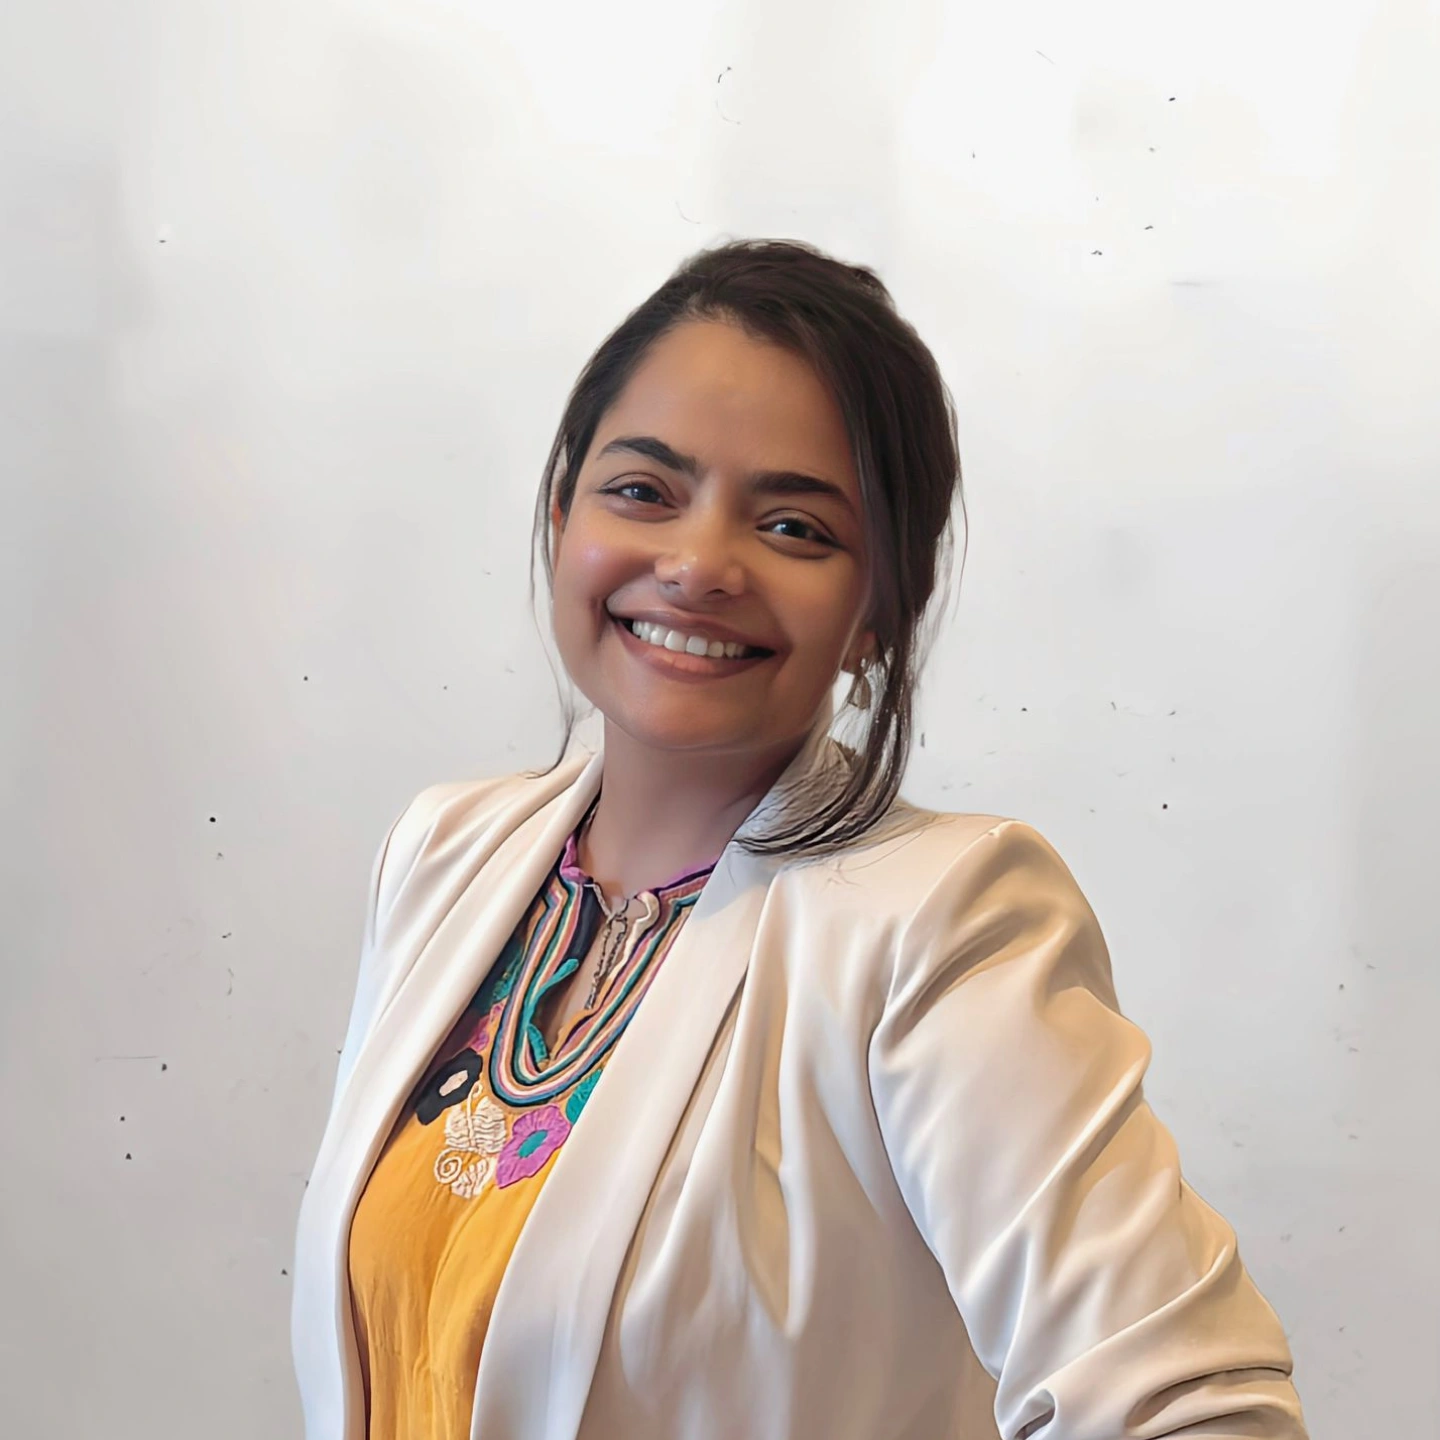
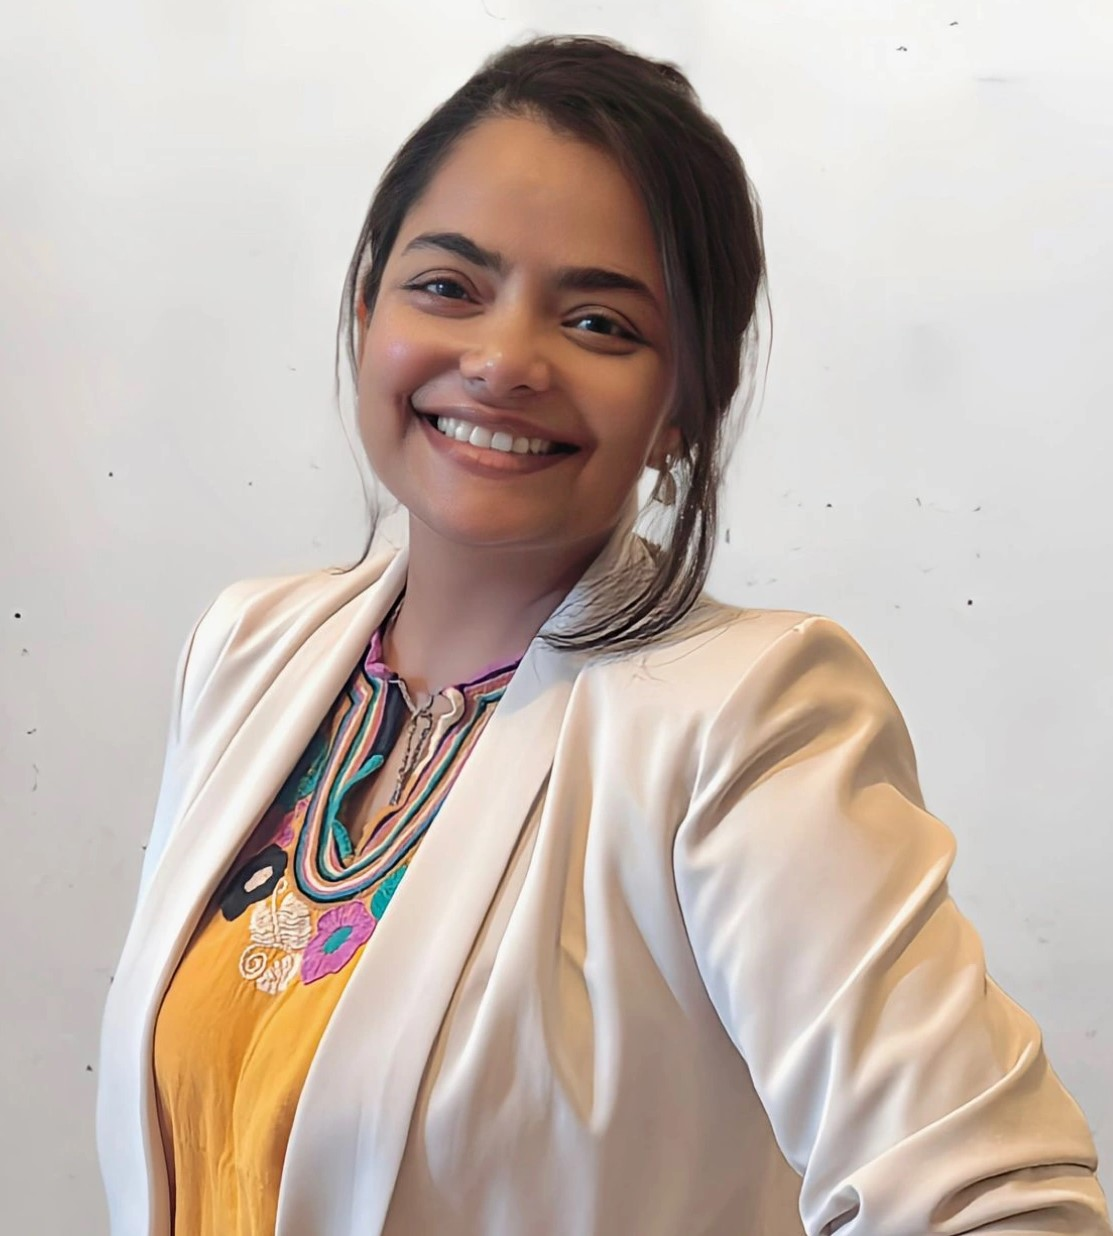
cropped pic and changed about section

diff --git a/_pages/about.md b/_pages/about.md
@@ -2,14 +2,14 @@
 layout: about
 title: about
 permalink: /
-subtitle: <a href='#'>Affiliations</a>. Address. Contacts. Motto. Etc.
+subtitle: <a href='https://www.hsr.it/'>Affiliations</a>. Be Brief, Be Sincere, Be Seated.
 
 profile:
   align: right
   image: prof_pic.jpg
   image_circular: false # crops the image to make it circular
   more_info: >
-    <p>Milan, Lombardy, Italy 20132</p>
+    <p>Milan, Italy</p>
 
 selected_papers: true # includes a list of papers marked as "selected={true}"
 social: true # includes social icons at the bottom of the page
@@ -25,4 +25,4 @@ latest_posts:
   limit: 3 # leave blank to include all the blog posts
 ---
 
-Highly skilled bioinformatics professional with extensive experience in next-generation sequencing, computational pipeline development, and scientific project management. Currently serving as Project Manager for Scientific Projects at San Raffaele Hospital, I specialize in managing complex European-funded initiatives and coordinating multidisciplinary research teams. My expertise spans automated NGS pipelines, variant interpretation, and data management with a proven track record of handling over 200 samples and developing innovative bioinformatics solutions.
+Highly skilled bioinformatics professional with extensive experience in next-generation sequencing (NGS), computational pipeline development, and scientific project management. Currently serving as Project Manager for Scientific Projects at San Raffaele Hospital, I specialize in managing complex European-funded initiatives and coordinating multidisciplinary research teams. My expertise spans automated NGS pipelines, variant interpretation, and data management with a proven track record of handling over 2000 samples and developing innovative bioinformatics solutions.
